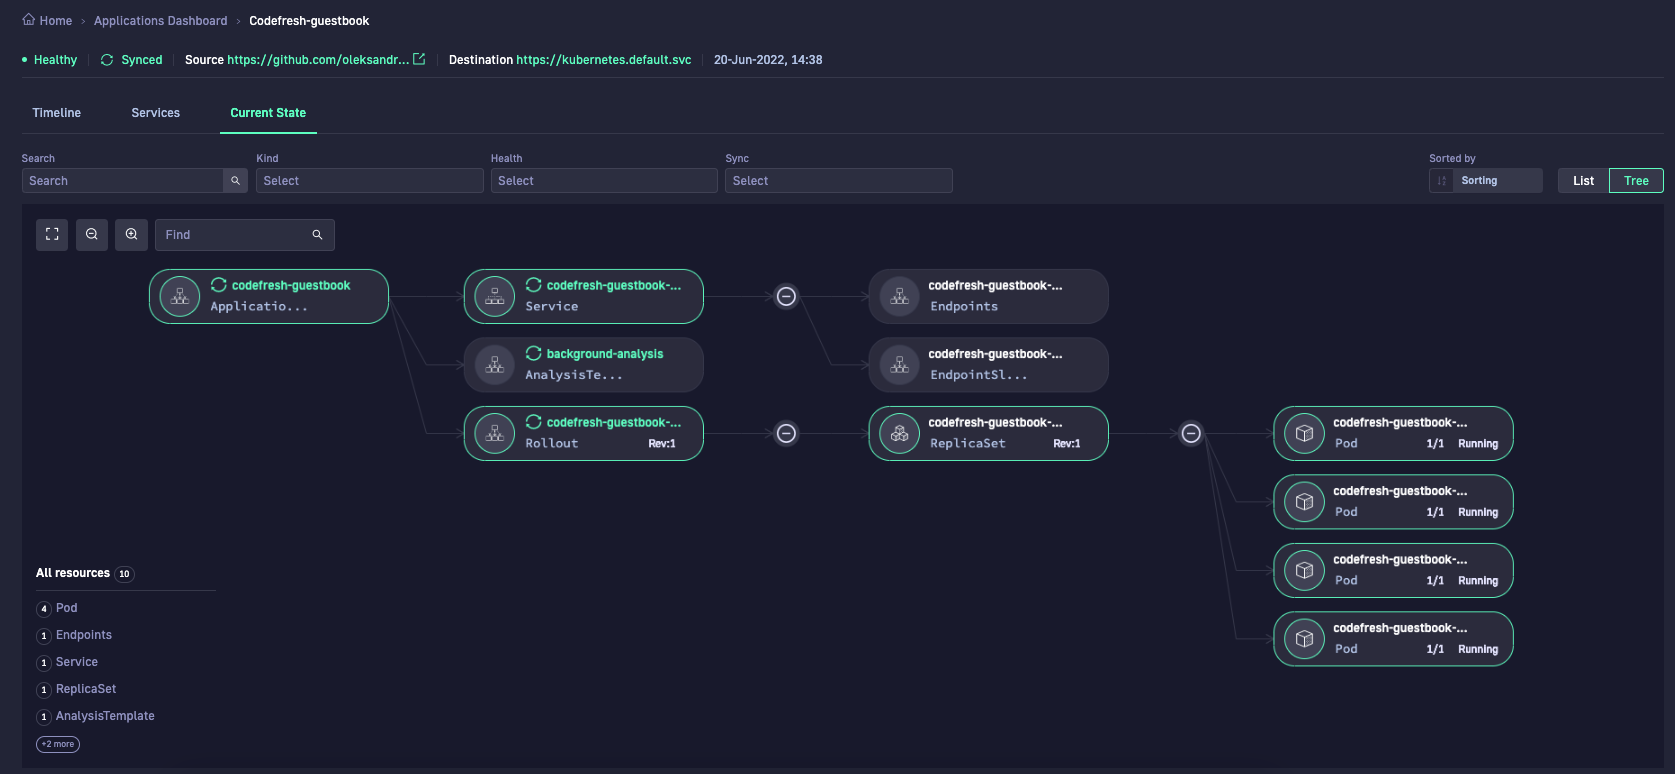
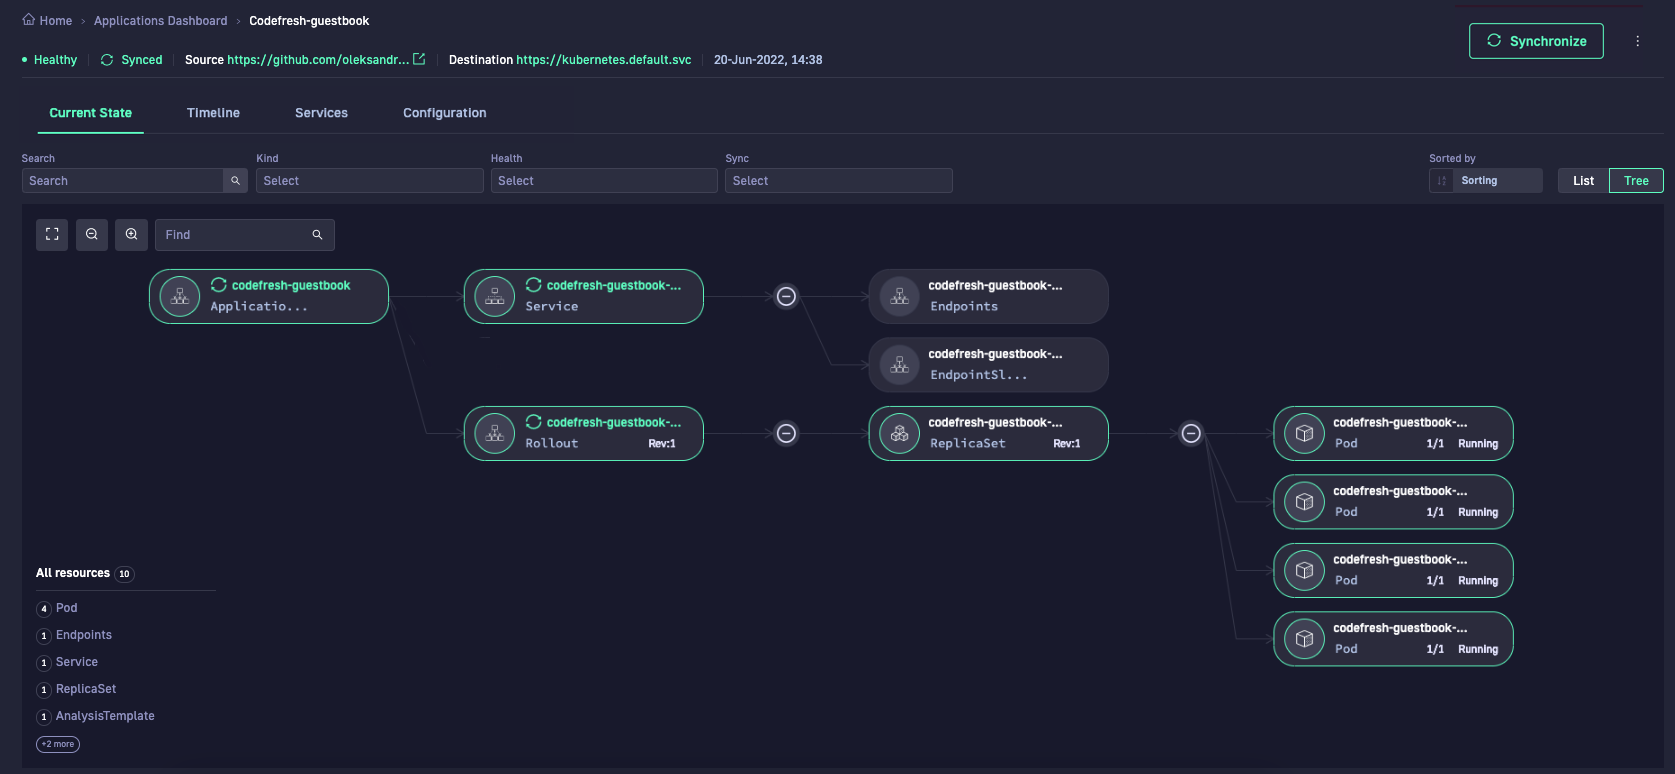
Cf quick start app refactor (#228)
* Update quick start app topics

Initial restructure acc to new reqs

* Update quick start app modules

Added install argo rollouts step to hosted runtime; updated create app and app resources

* Update app quick start topics

Content edits to align with new structure

* Update app modules

Content updates

* Update titles

* Update images

diff --git a/_docs/getting-started/quick-start/create-app-specs.md b/_docs/getting-started/quick-start/create-app-specs.md
@@ -1,40 +1,25 @@
 ---
-title: "Create resources for codefresh-guestbook"
+title: "Create and commit resources for application"
 description: ""
 group: getting-started
 sub-group: quick-start
 toc: true
 ---
 
-Before you can create an application in Codefresh, you need to create the resources used by the application:
-
-1. Install Argo Rollouts on the target cluster to which you will deploy the application
+Now that you have created an application, you need to deploy the application. Let's deploy the `codefresh-guestbook` application by creating and commiting resources.  
+You will create and commit the following resources:  
+1. A folder in Git to save resources for the application 
 1. `Rollout` resource defining the deployment strategy 
-1. Service resource to expose the application to external traffic
-1. Analysis Template resource defining the validation requirements before deployment
+1. `Service` resource to expose the application to external traffic
 
-### Install Argo Rollouts on the target cluster
-To apply the `Rollout` resource for the application, you must have Argo Rollouts installed on the target cluster. If not installed, follow the steps to install Argo Rollouts.
-
-1. In the Codefresh UI, go to [Runtimes](https://g.codefresh.io/2.0/account-settings/runtimes){:target="\_blank"}.
-1. Select **Topology View**.
-1. Select the target cluster, and then select **+ Install Argo Rollouts**.
-
-{% include 
-   image.html 
-   lightbox="true" 
-   file="/images/getting-started/quick-start/cdops-app-install-rollout.png" 
-   url="/images/getting-started/quick-start/cdops-app-install-rollout.png" 
-   alt="Install Argo Rollouts on target cluster" 
-   caption="Install Argo Rollouts on target cluster"
-   max-width="50%" 
-   %}
+### Before you begin
+* [Create an application]({{site.baseurl}}/docs/getting-started/quick-start/create-app-ui)  
+* Make sure [Argo Rollouts is installed]({{site.baseurl}}/docs/deployment/install-argo-rollouts) on the target cluster
 
 ### Create folder in Git for application resources
-Create a folder in the Git repo in which to save all the resources. 
+Create a folder in the Git repo in which to save all the resources for the `codefresh-guestbook` application. 
 
 * In your Git repo, create a folder to store the resources needed to deploy the application.  
-
   For example, `/quick-start/`
 
 ### Create rollout.yaml
@@ -42,7 +27,7 @@ Create a folder in the Git repo in which to save all the resources.
 Create a rollout resource for the application you want to deploy.  
   
 
-To leverage Argo Rollout's deployment capabilities, we are using the Argo's Rollout resource instead of the native Kubernetes Deployment object.
+To leverage Argo Rollouts' deployment capabilities, we are using the Argo's `rollout` resource instead of the native Kubernetes Deployment object.
 For detailed information on the fields you can define, see [Argo Rollout specification](https://argoproj.github.io/argo-rollouts/features/specification/){:target="\_blank"}. 
 
 
@@ -75,10 +60,6 @@ spec:
   minReadySeconds: 30
   strategy:
     canary:
-      analysis:
-        templates:
-          - templateName: background-analysis
-        startingStep: 1
       steps:
         - setWeight: 25
         - pause: {duration: 20s}
@@ -128,48 +109,23 @@ spec:
 | `spec.ports`              | The internal `port`, 8080 in our example, and external `targetPort`, 80 in our example.| 
 | `selector.app`            | The pods to select, and MUST be identical to that defined in `rollouts.yaml`, `codefresh-guestbook` in our example.| 
 
-### Create an AnalysisTemplate for rollout validation
-Create an `AnalysisTemplate` resource to validate that your changes conform to the requirements before deployment. This is the final resource you need before you can create the application.
+### View application resources in Codefresh
+Once you create and commit the `rollout` and `service` resources, return to the Applications dashboard. The Current State  to see these resources.
 
-The name of the `AnalysisTemplate` in the quick start example is `background-analysis`. The template interfaces with Prometheus as the third-party metric provider to validate metrics.  
+1. In the Codefresh UI, go to the [Applications dashboard](https://g.codefresh.io/2.0/applications-dashboard?sort=desc-lastUpdated){:target="\_blank"}.  
+1. Select the application. 
+  The Current State tab is now populated with the `rollout` and `service` resources you added. 
 
-You can use any third-party metric provider supported by Argo Rollouts, such as Prometheus, Datadog, Wavefront, and more. Read the official documentation on [Analysis section in Argo Rollouts](https://argoproj.github.io/argo-rollouts/){:target="\_blank"}. 
-
-
-* In the Git repository create the `analysisTemplate.yaml` file, as in the example below.
-
-
-```yaml
-apiVersion: argoproj.io/v1alpha1
-kind: AnalysisTemplate
-metadata:
-  name: background-analysis
-spec:
-  metrics:
-    - name: prometheus-metric
-      count: 4
-      interval: 5s
-      successCondition: result[0] >= 100
-      failureLimit: 1
-      provider:
-        prometheus:
-          address: http://a95910c83807a4089a2458554bf5c21e-1864259807.us-east-1.elb.amazonaws.com:9090
-          query: |
-            sum(argocd_app_reconcile_sum)
-```
-
-####  Fields in `analysisTemplate.yaml`
-
-{: .table .table-bordered .table-hover}
-|  Analysis Template field            |  Notes |  
-| --------------            | --------------           |  
-| `count`                   | The total number of measurements taken, `4` in our example.| 
-| `interval`                | The interval between measurement samplings, `5s` in our example.| 
-| `successCondition`        | The requirement for the rollout to be considered a success. In our example, the resulting metric value must be equal to or greater than 100.|
-| `failureLimit`            | The maximum number of failures permitted, `1` in our example. If the metric value is below 100 more than once, the rollout is aborted.|
-| `query`                   | The query submitted to the Prometheus server.|
-
-You are now ready to create the application in Codefresh. 
+  {% include 
+   image.html 
+   lightbox="true" 
+   file="/images/getting-started/quick-start/cdops-app-current-state.png" 
+   url="/images/getting-started/quick-start/cdops-app-current-state.png" 
+   alt="Current State with resources for application" 
+   caption="Current State with resources for application"
+   max-width="70%" 
+   %}
 
 ### What to do next
-[Create the codefresh-guestbook application]({{site.baseurl}}/docs/getting-started/quick-start/create-app-ui)
+<!---[Create Jira and Docker Hub integrations ]({{site.baseurl}}/docs/getting-started/quick-start/create-app-ui)--->
+[(Optional) Update image tag for application]({{site.baseurl}}/docs/getting-started/quick-start/create-rollout)

diff --git a/_docs/getting-started/quick-start/create-app-ui.md b/_docs/getting-started/quick-start/create-app-ui.md
@@ -1,19 +1,17 @@
 ---
-title: "Create the codefresh-guestbook application"
+title: "Create an application"
 description: ""
 group: getting-started
 sub-group: quick-start
 toc: true
 ---
 
-Now that you have created all the resources for the application, you can create the application in Codefresh.
-For the quick start, you will create the `codefresh-guestbook` application.
+Let's start by creating a simple application, the `codefresh-guestbook` application in the Codefresh UI.  
+We'll create the application without resources and then define/add resources in the next step.  
+
 
 For detailed information, see [Create an application]({{site.baseurl}}/docs/deployment/create-application).
 
-**Before you begin**  
-
-[Create resources for codefresh-guestbook application]({{site.baseurl}}/docs/getting-started/quick-start/create-app-specs)  
 
 **How to**  
 
@@ -23,9 +21,10 @@ For detailed information, see [Create an application]({{site.baseurl}}/docs/depl
 1. In the Add Application panel, add definitions for the application:
   * **Application name**: `codefresh-guestbook` for the quick start.
   * **Runtime**: The runtime to associate with the application, `hosted-runtime` for the quick start.  
-  * **YAML filename**: The name of the application's configuration manifest, assigned on commit to Git. By default, the manifest is assigned the application name.
+  * **Name for YAML file**: The name of the application's configuration manifest, assigned on commit to Git. By default, the manifest is assigned the application name.  
+    You can click the Edit icon and change the name, if needed.
 
-  >The application definitions cannot be changed after you continue to the Configuration settings.
+  >You cannot change the application definitions once you continue to the Configuration settings.
 
 {% include 
    image.html 
@@ -44,7 +43,7 @@ For detailed information, see [Create an application]({{site.baseurl}}/docs/depl
   * **Repository URL**: The URL to the repo in Git where you created the YAML resource files for the application.
   * **Revision**: The branch in Git with the resource files.
   * **Path**: The folder in Git with the resource files.
-  * **Namespace**: Optional. For the quick start, we'll create a namespace for the application, `quick-start`. 
+  * **Namespace**: Optional. For the quick start, we'll create a namespace for the application, entitled `quick-start`. 
   * **Sync Policy**: Change to **Automatic**, and select **Prune resources** to automatically remove unused resources.
   * **Sync Options**: If you defined a namespace, select **Auto-create namespace** to ensure that the namespace is created if it doesn't exist. 
  
@@ -62,7 +61,7 @@ For detailed information, see [Create an application]({{site.baseurl}}/docs/depl
 {:start="6"}
 1. Retain the default **Advanced Settings**.  
 1. To commit all your changes, select **Commit**.  
-  The Commit form is displayed with the application's definition on the left, and the read-only version of the manifest with the configuration settings you defined on the right.
+  The Commit form is displayed with the application's definitions on the left, and the read-only version of the manifest with the configuration settings you defined on the right.
 1. Select the **Git Source** to which to commit.
 
 {% include 
@@ -91,20 +90,21 @@ For detailed information, see [Create an application]({{site.baseurl}}/docs/depl
    %} 
 
 {:start="10"}
-1. Select the application, and then click the **Current State** tab to see all the resources created for the application.
+1. Select the application. The Current State tab does not display any resources as we have not created any resources for the application. 
 
   {% include 
    image.html 
    lightbox="true" 
-   file="/images/getting-started/quick-start/cdops-app-current-state.png" 
-   url="/images/getting-started/quick-start/cdops-app-current-state.png" 
-   alt="Current State for codefresh-guestbook application" 
-   caption="Current State for codefresh-guestbook application"
+   file="/images/getting-started/quick-start/cdops-app-empty-current-state.png" 
+   url="/images/getting-started/quick-start/cdops-app-empty-current-state.png" 
+   alt="Empty Current State for new application" 
+   caption="Empty Current State for new application"
    max-width="70%" 
-   %} 
+   %}
+  
 
+In the next task, you will create and commit resources for the `codefresh-guestbook` application and deploy the application. 
 
-The final step is to make a change in the application manifest to enforce a rollout. 
 
 ### What to do next
-[Update image tag for codefresh-guestbook application]({{site.baseurl}}/docs/getting-started/quick-start/create-rollout)
+[Create and commit resources for application]({{site.baseurl}}/docs/getting-started/quick-start/create-app-specs/)

diff --git a/_docs/getting-started/quick-start.md b/_docs/getting-started/quick-start.md
@@ -17,14 +17,10 @@ Each section indicates the runtime environment it is relevant to.
 ### Provision runtimes
 Based on your deployment model, start by provisioning the hosted or hybrid runtime. Hosted and hybrid runtimes can co-exist with each other.
 
-* Hosted runtimes: Hosted on a Codefresh cluster and managed by Codefresh. You need to provision your hosted runtime once for your account.
-* Hybrid runtimes: Hosted on a customer cluster and managed by the customer. You can provision multiple hybrid runtimes in the same account.
-
-{::nomarkdown}
-<br>
-{:/}
 
 #### Hosted 
+Hosted runtimes are hosted on a Codefresh cluster and managed by Codefresh. You need to provision your hosted runtime once for your account.  
+
 1. [Provision a hosted runtime]({{site.baseurl}}/docs/getting-started/quick-start/install-hosted)  
   Provision the hosted runtime with a single click, and complete the setup for your hosted environment.  
 
@@ -33,6 +29,8 @@ Based on your deployment model, start by provisioning the hosted or hybrid runti
 {:/}
 
 #### Hybrid
+Hybrid runtimes: Hosted on a customer cluster and managed by the customer. You can provision multiple hybrid runtimes in the same account.  
+
 1. [Prepare for hosted runtime installation]({{site.baseurl}}/docs/getting-started/quick-start/verify-requirements)  
   Verify your environment matches the requirements for installing Codefresh runtime.
 1. [Install hybrid runtime]({{site.baseurl}}/docs/getting-started/quick-start/runtime)  
@@ -40,11 +38,11 @@ Based on your deployment model, start by provisioning the hosted or hybrid runti
 
 ### Deploy an application
 
-1. [Create resources for codefresh-guestbook application]({{site.baseurl}}/docs/getting-started/quick-start/create-app-specs)  
-  Create rollout, service, and analysis template resources prior to creating the `codefresh-guestbook` application.
-1. [Create the codefresh-guestbook application]({{site.baseurl}}/docs/getting-started/quick-start/create-app-ui)  
+1. [Create an application]({{site.baseurl}}/docs/getting-started/quick-start/create-app-ui)  
   Create the `codefresh-guestbook` application in the Codefresh UI.
-1. [Update the image tag for codefresh-guestbook]({{site.baseurl}}/docs/getting-started/quick-start/create-rollout)  
+1. [Create and commit resources for application]({{site.baseurl}}/docs/getting-started/quick-start/create-app-specs)  
+  Create rollout and service resources, and commit these resources to deploy the `codefresh-guestbook` application.
+1. [Update the image tag for application]({{site.baseurl}}/docs/getting-started/quick-start/create-rollout)  
   Update the image for the `codefresh-guestbook` application to trigger a rollout.
 
 ### Trigger/create a Delivery Pipeline 

diff --git a/_docs/getting-started/quick-start/install-hosted.md b/_docs/getting-started/quick-start/install-hosted.md
@@ -10,7 +10,8 @@ If you have Hosted GitOps, set up your hosted runtime environment:
 
 1. Provision the hosted runtime with a single click
 1. Authorize access through your OAuth token to the organization where Codefresh creates the Git runtime repo and the shared configuration repo
-1. Connect to an external K8s cluster with access to the internet, to which you can deploy applications  
+1. Connect to an external K8s cluster with access to the internet, to which you can deploy applications 
+1. Install Argo Rollouts on the cluster   
 
 Read our [blog on Hosted GitOps](https://codefresh.io/blog/codefresh-upends-continuous-delivery-with-hosted-gitops-platform-featuring-dora-dashboards-and-first-class-integrations-for-ci/).  
 For detailed information on each of the steps below, see [Set up a hosted runtime environment]({{site.baseurl}}/docs/runtime/hosted-runtime/).  
@@ -87,6 +88,21 @@ alt="Connect a K8s cluster for hosted runtime"
 caption="Connect a K8s cluster for hosted runtime"
 max-width="70%" 
 %}
+
+1. Install Argo Rollouts on the cluster you added. You'll need this to apply the `rollout` resource we will create for the application in the next task.
+  * Go to [Runtimes](https://g.codefresh.io/2.0/account-settings/runtimes){:target="\_blank"}.
+  * Select **Topology View**.
+  * Select the target cluster, and then select **+ Install Argo Rollouts**.
+
+{% include 
+   image.html 
+   lightbox="true" 
+   file="/images/getting-started/quick-start/cdops-app-install-rollout.png" 
+   url="/images/getting-started/quick-start/cdops-app-install-rollout.png" 
+   alt="Install Argo Rollouts on managed cluster" 
+   caption="Install Argo Rollouts on managed cluster"
+   max-width="50%" 
+   %}
 
 ### What to do next
 [Create resources for codefresh-guestbook application]({{site.baseurl}}/docs/getting-started/quick-start/create-app-specs) 

diff --git a/_docs/getting-started/quick-start/create-rollout.md b/_docs/getting-started/quick-start/create-rollout.md
@@ -1,16 +1,17 @@
 ---
-title: "Update image tag for the codefresh-guestbook application"
+title: "Update image tag for application"
 description: ""
 group: getting-started
 sub-group: quick-start
 toc: true
 ---
 
-You will now make a change in the application manifest, and update the image tag. Because we selected auto-sync in the application settings, Argo CD detects that the live state in the cluster is out of sync with the desired state in Git, and initiates the new rollout. The rollout runs the analysis template you defined (`background-analysis` in the quick start).
+You will now make a change in the application manifest, and update the image tag. Because we selected auto-sync in the application settings, Argo CD detects that the live state in the cluster is out of sync with the desired state in Git, and triggers the new rollout. <!---The rollout runs the analysis template you defined (`background-analysis` in the quick start).--->
 
 ### Before you begin
 
-[Create the codefresh-guestbook application]({{site.baseurl}}/docs/getting-started/quick-start/create-app-ui) 
+* [Create resources for application]({{site.baseurl}}/docs/getting-started/quick-start/create-app-specs/)
+
 
 ### Update image tag in rollout.yaml
 Update the image tag in the `codefresh-guestbook` application.  

diff --git a/_docs/getting-started/quick-start/create-github-action-ci.md b/_docs/getting-started/quick-start/create-github-action-ci.md
@@ -1,0 +1,7 @@
+---
+title: "Connect a GitHub Action CI to enrich image"
+description: ""
+group: getting-started
+sub-group: quick-start
+toc: true
+---
